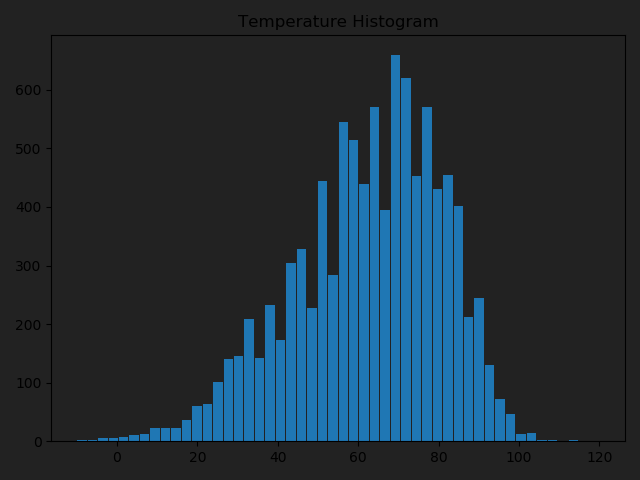
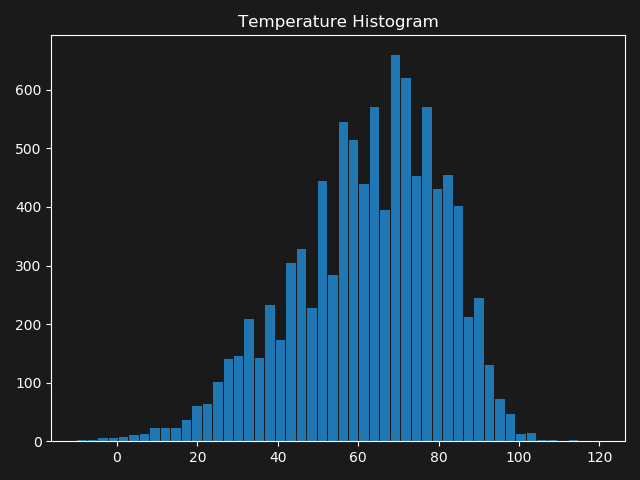
updated gui and buttons and layout and style

diff --git a/Code/map.html b/Code/map.html
@@ -23,7 +23,7 @@
             <meta name="viewport" content="width=device-width,
                 initial-scale=1.0, maximum-scale=1.0, user-scalable=no" />
             <style>
-                #map_f28fc590f0f349b580470bacb0b08390 {
+                #map_f9cfbc2d96424bd09496cbfc6f33b7de {
                     position: relative;
                     width: 100.0%;
                     height: 100.0%;
@@ -38,13 +38,13 @@
 </head>
 <body>    
     
-            <div class="folium-map" id="map_f28fc590f0f349b580470bacb0b08390" ></div>
+            <div class="folium-map" id="map_f9cfbc2d96424bd09496cbfc6f33b7de" ></div>
         
 </body>
 <script>    
     
-            var map_f28fc590f0f349b580470bacb0b08390 = L.map(
-                "map_f28fc590f0f349b580470bacb0b08390",
+            var map_f9cfbc2d96424bd09496cbfc6f33b7de = L.map(
+                "map_f9cfbc2d96424bd09496cbfc6f33b7de",
                 {
                     center: [37.0902, -95.7129],
                     crs: L.CRS.EPSG3857,
@@ -58,13 +58,13 @@
 
         
     
-            var tile_layer_a44b94662ee844ddafaa44dfa1f30394 = L.tileLayer(
+            var tile_layer_4c96fa66e41d4bffb675462868b616e5 = L.tileLayer(
                 "https://cartodb-basemaps-{s}.global.ssl.fastly.net/dark_all/{z}/{x}/{y}.png",
                 {"attribution": "\u0026copy; \u003ca href=\"http://www.openstreetmap.org/copyright\"\u003eOpenStreetMap\u003c/a\u003e contributors \u0026copy; \u003ca href=\"http://cartodb.com/attributions\"\u003eCartoDB\u003c/a\u003e, CartoDB \u003ca href =\"http://cartodb.com/attributions\"\u003eattributions\u003c/a\u003e", "detectRetina": false, "maxNativeZoom": 18, "maxZoom": 18, "minZoom": 3.5, "noWrap": false, "opacity": 1, "subdomains": "abc", "tms": false}
-            ).addTo(map_f28fc590f0f349b580470bacb0b08390);
+            ).addTo(map_f9cfbc2d96424bd09496cbfc6f33b7de);
         
     
-            var fast_marker_cluster_882cf982f6f84fa88a035be957a4989d = (function(){
+            var fast_marker_cluster_39816a85d08c4c6e89d92b12f0c2873a = (function(){
                 
                 var callback = function (row) {
                     var icon = L.AwesomeMarkers.icon();
@@ -82,7 +82,7 @@
                     marker.addTo(cluster);
                 }
 
-                cluster.addTo(map_f28fc590f0f349b580470bacb0b08390);
+                cluster.addTo(map_f9cfbc2d96424bd09496cbfc6f33b7de);
                 return cluster;
             })();
         

diff --git a/Code/main_window.py b/Code/main_window.py
@@ -38,13 +38,14 @@ class main_window(QMainWindow):
         self.widget = QtWidgets.QWidget()
         self.setCentralWidget(self.widget)
         self.widget.setLayout(QtWidgets.QGridLayout())
-        self.widget.layout().setContentsMargins(20, 20, 20, 20)
+        self.widget.layout().setContentsMargins(20, 5, 20, 20)
         self.widget.layout().setSpacing(5)
         self.widget.layout().setColumnStretch(0, 3)
         self.widget.layout().setColumnStretch(1,1)
-        self.widget.layout().setRowStretch(0, 2)
-        self.widget.layout().setRowStretch(1, 1)
-        self.setWindowTitle("Main Window")
+        self.widget.layout().setColumnStretch(2, 2)
+        self.widget.layout().setRowStretch(0, 1)
+        self.widget.layout().setRowStretch(1, 4)
+        self.setWindowTitle("US Accidents Data Mining")
         self.showMaximized()
         #THEME COLOR
         self.setStyleSheet("QMainWindow {background-image: url(background.jpg)}")
@@ -57,7 +58,7 @@ class main_window(QMainWindow):
         self.GroupBox1.setLayout(layout1)
         layout1.setContentsMargins(5, 5, 5, 5)
         layout1.setSpacing(5)
-        self.widget.layout().addWidget(self.GroupBox1, 0, 0, 1, 1)
+        self.widget.layout().addWidget(self.GroupBox1, 0, 0, 1, 2)
 
         # Small group2
         self.GroupBox2 = QGroupBox()
@@ -65,7 +66,7 @@ class main_window(QMainWindow):
         self.GroupBox2.setLayout(layout2)
         layout2.setContentsMargins(5, 5, 5, 5)
         layout2.setSpacing(5)
-        self.widget.layout().addWidget(self.GroupBox2, 0, 1, 1, 1)
+        self.widget.layout().addWidget(self.GroupBox2, 0, 2, 2, 1)
 
         # Small group3
         self.GroupBox3 = QGroupBox()
@@ -73,7 +74,7 @@ class main_window(QMainWindow):
         self.GroupBox3.setLayout(layout3)
         layout3.setContentsMargins(5, 5, 5, 5)
         layout3.setSpacing(5)
-        self.widget.layout().addWidget(self.GroupBox3, 1, 0, 2, 2)
+        self.widget.layout().addWidget(self.GroupBox3, 2, 0, 1, 3)
 
         # ==================# TABS WIDGET LAYOUT #==================#
         #Tabs
@@ -127,13 +128,20 @@ class main_window(QMainWindow):
         Button1 = QtWidgets.QPushButton(self.widget)
         Button1.setText("Preprocess Random Sample")
         Button1.clicked.connect(self.on_Button1_clicked)
-        layout1.addWidget(Button1, 0, 0, 1, 1)
+        self.widget.layout().addWidget(Button1, 1, 0, 1, 1)
+
+        # spinbox1
+        SpinBox1 = QtWidgets.QSpinBox(self.widget)
+        SpinBox1.setMaximum(1000000)
+        self.widget.layout().addWidget(SpinBox1, 1, 1, 1, 1)
 
         #button2
         Button2 = QtWidgets.QPushButton(self.widget)
         Button2.setText("Button2")
         Button2.clicked.connect(self.on_Button2_clicked)
         layout1.addWidget(Button2, 0, 1, 1, 1)
+
+
 
 
         # Image
@@ -155,11 +163,11 @@ class main_window(QMainWindow):
         self.model = QtGui.QStandardItemModel(self.widget)
 
         self.model.setHorizontalHeaderLabels(
-            ['severity', 'latitude', 'longitude', 'distance(mi)', 'number', 'temperature',
-             'wind chill(F)', 'humidity%', 'pressure(in)', 'visibility(mi)',
-             'wind speed(mph)', 'precipitation(in)'])
+            ['Severity', 'Latitude', 'Longitude', 'Distance(mi)', 'Number', 'Temperature',
+             'Wind Chill(F)', 'Humidity%', 'Pressure(in)', 'Visibility(mi)',
+             'Wind Speed(mph)', 'Precipitation(in)'])
         self.model.setVerticalHeaderLabels(
-            ['count', 'mean', 'std', 'min', '25%', '50%', '75%', 'max'])
+            ['Count', 'Mean', 'Std', 'Min', '25%', '50%', '75%', 'Max'])
         self.tableView = QTableView(self.widget)
         #self.tableView.setStyleSheet("QTableView{ background-color: rgb(45, 45, 45);  }")  # cell color
         self.tableView.horizontalHeader().setStretchLastSection(True)
@@ -189,7 +197,7 @@ class main_window(QMainWindow):
                     ]
                     self.model.appendRow(self.items)
             self.model.setVerticalHeaderLabels(
-                ['count', 'mean', 'std', 'min', '25%', '50%', '75%', 'max'])
+                ['Count', 'Mean', 'Std', 'Min', '25%', '50%', '75%', 'Max'])
         except:
             print("No Database")
 

diff --git a/Code/eda_stats.py b/Code/eda_stats.py
@@ -15,25 +15,27 @@ class eda():
 
         #summary
         summary = self.data.describe()
-        summary.to_csv(os.path.abspath(os.path.join(os.path.dirname(__file__), "statistic_summary.csv")),
-                         index=False,
-                         header=False)
+        summary.to_csv(os.path.abspath(os.path.join(os.path.dirname(__file__), "statistic_summary.csv")), index=False, header=False)
         print(summary)
 
 
         #temperature histogram
-        plt.title('Temperature Histogram')
+        title_obj = plt.title('Temperature Histogram')
         # fairly evenly distributed histogram; most accidents occur around the 60-70 degree mark
         plt.hist(self.data['Temperature(F)'],bins=50,range=[-10,120], rwidth=0.9)
 
-        # accident times histogram
-        #self.data['Start_Time'] = self.data['Start_Time'].astype('datetime64')
-        #self.data['Start_Time'] = pd.to_datetime(self.data['Start_Time'])
-        # bifurcated histogram, with most accidents occuring during morning and evening rush hour
-        #plt.hist(self.data['Start_Time'].dt.time, bins=100, rwidth=0.9)
-        #plt.title('Accident Times')
-
-
+        #line colors
+        plt.setp(title_obj, color='w')
+        plt.tick_params(axis='both', colors='white')
+        ax = plt.gca()
+        ax.spines['bottom'].set_color('w')
+        ax.spines['top'].set_color('w')
+        ax.spines['right'].set_color('w')
+        ax.spines['left'].set_color('w')
 
         plt.tight_layout()
-        plt.savefig('temp_hist.png', facecolor = '#222222', transparent = True)
+        plt.savefig('temp_hist.png',
+                    facecolor = '#1a1a1a',
+                    transparent = True,
+
+                    )
